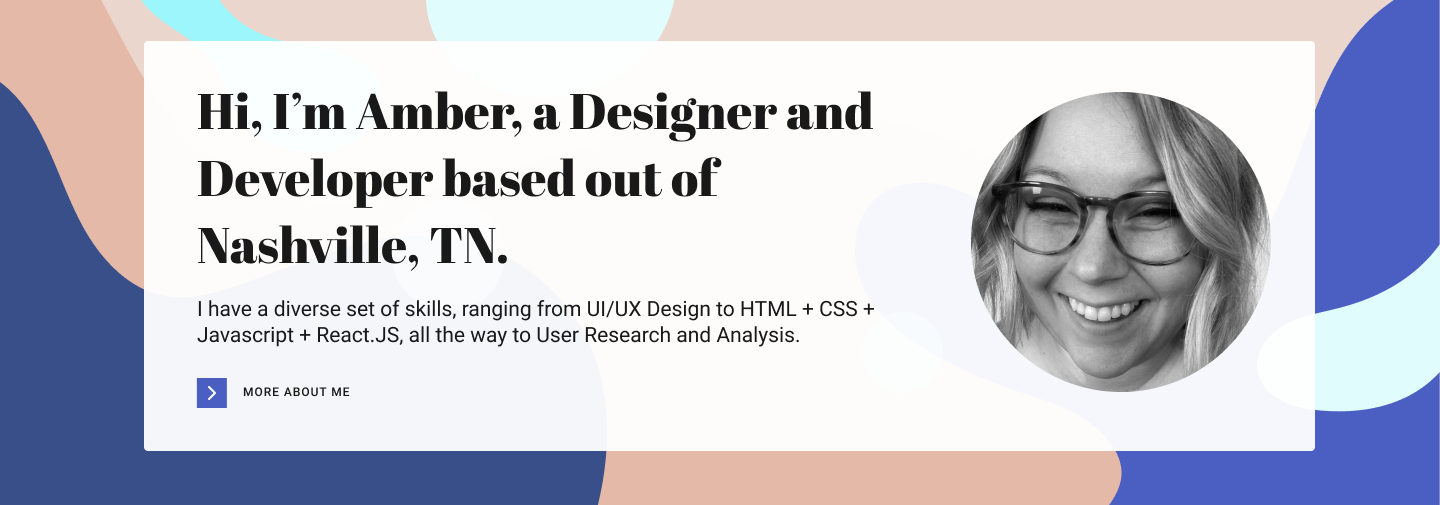
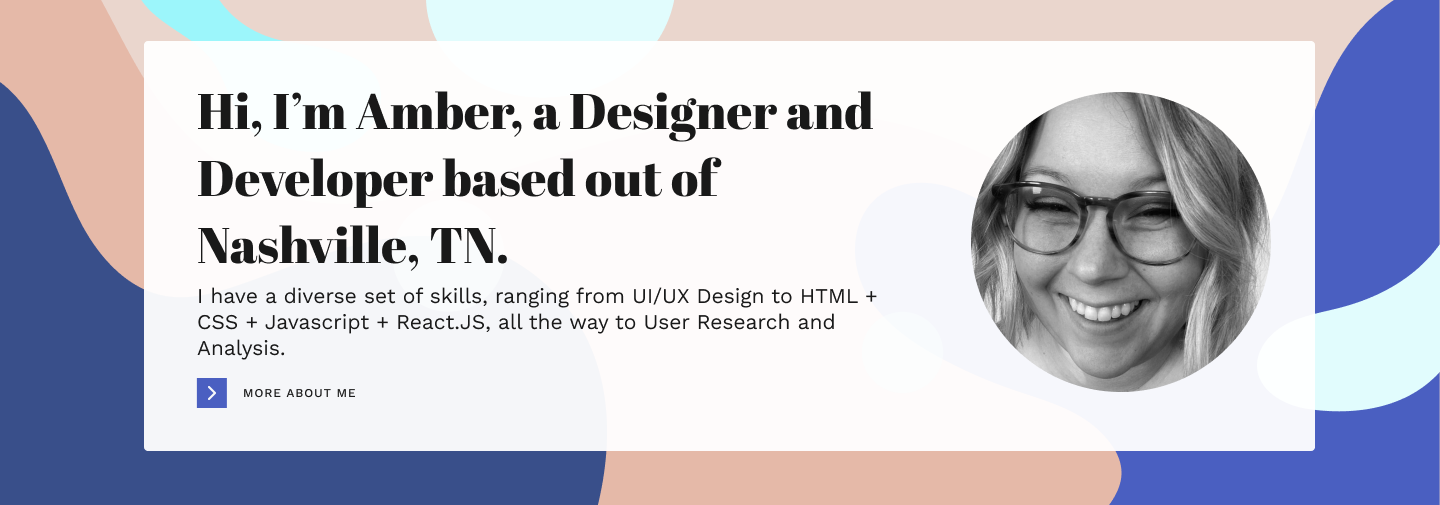
added selected work and recommendations html.

Changed region(s): [[0.125, 0.5644, 0.625, 0.7129], [0.1562, 0.7426, 0.25, 0.802]]

diff --git a/index.html b/index.html
@@ -12,7 +12,7 @@
 </head>
 <body>
     <nav class="navbar navbar-expand-lg navbar-light bg-light">
-        <div class="container-fluid navbar-container">
+        <div class="container-fluid">
           <button class="navbar-toggler" type="button" data-bs-toggle="collapse" data-bs-target="#navbarNav" aria-controls="navbarNav" aria-expanded="false" aria-label="Toggle navigation">
             <span class="navbar-toggler-icon"></span>
           </button>
@@ -54,5 +54,51 @@
     <script type="text/javascript" src="main.js"></script>
     <script src="https://cdn.jsdelivr.net/npm/@popperjs/core@2.9.1/dist/umd/popper.min.js" integrity="sha384-SR1sx49pcuLnqZUnnPwx6FCym0wLsk5JZuNx2bPPENzswTNFaQU1RDvt3wT4gWFG" crossorigin="anonymous"></script>
     <script src="https://cdn.jsdelivr.net/npm/bootstrap@5.0.0-beta3/dist/js/bootstrap.min.js" integrity="sha384-j0CNLUeiqtyaRmlzUHCPZ+Gy5fQu0dQ6eZ/xAww941Ai1SxSY+0EQqNXNE6DZiVc" crossorigin="anonymous"></script>
+    <h2 class="h2-heading">Selected Work</h2>
+    <div class="selectedWorkContainer" >
+        <div class="selectedWork">
+            <a><img src="images/community.png" class="selectedWorkImg" /></a>
+            <h3 class="h3-heading">Community</h3>
+            <p>CMS <span>(Design & Development)</span></p>
+        </div>
+        <div class="selectedWork">
+            <a><img src="images/DE.png" class="selectedWorkImg" /></a>
+            <h3 class="h3-heading">Data Extract</h3>
+            <p>Web app <span>(Design)</span></p>
+        </div>
+
+        <div class="selectedWork">
+            <a><img src="images/eComm.png" class="selectedWorkImg" /></a>
+            <h3 class="h3-heading">eCommerce</h3>
+            <p>Web app <span>(Re-design Development)</span></p>
+        </div>
+        <div class="selectedWork">
+            <a><img src="images/NDA.png" class="selectedWorkImg" /></a>
+        </div>
+    </div>
+    <div class="recomendationsContainer">
+        <h2 class="h2-heading">Recommendations</h2>
+        <h4>Here’s what my teammates have to say about me</h4>
+        <div class="recommendationRow">
+            <div class="quotationBlock">
+                <p>“She is an innovator that only seems to be bound by the lack of time in a day. When working with Amber it is easy to see that her true goal is not simply to solve a problem, but to elevate the solution.”</p>
+                <div class="caret"></div>
+                <img src="images/patrickpic.png" alt="picture of Patrick Thoreson" width="56px" height="56px" />
+                <p class="quotationName">Patrick Thoreson</p>
+            </div>
+            <div class="quotationBlock">
+                <p>“She is an innovator that only seems to be bound by the lack of time in a day. When working with Amber it is easy to see that her true goal is not simply to solve a problem, but to elevate the solution.”</p>
+                <div class="caret"></div>
+                <img src="images/patrickpic.png" alt="picture of Patrick Thoreson" width="56px" height="56px" />
+                <p class="quotationName">Patrick Thoreson</p>
+            </div>
+            <div class="quotationBlock">
+                <p>“She is an innovator that only seems to be bound by the lack of time in a day. When working with Amber it is easy to see that her true goal is not simply to solve a problem, but to elevate the solution.”</p>
+                <div class="caret"></div>
+                <img src="images/patrickpic.png" alt="picture of Patrick Thoreson" width="56px" height="56px" />
+                <p class="quotationName">Patrick Thoreson</p>
+            </div>
+        </div>
+    </div>
 </body> 
 </html>

diff --git a/main.css b/main.css
@@ -4,6 +4,20 @@ h1 {
 
 h2, h3, h4, h5, body, p, a, body {
     font-family: 'Work Sans', sans-serif;
+    color: #191919;
+}
+
+.h2-heading {
+    font-size: 38px;
+    font-weight: 400;
+    margin: 50px auto 10px;
+    text-align: center;
+}
+
+.h3-heading {
+    font-size: 28px;
+    font-weight: 400;
+    margin-top: 10px;
 }
 
 body {
@@ -12,6 +26,14 @@ body {
 
 .navbar {
     height: 72px;
+}
+
+#navbarNav {
+    justify-content: space-between;
+}
+
+.navbar>.container-fluid {
+    max-width: 1300px;
 }
 
 .navbar-light .navbar-nav .nav-link {
@@ -24,3 +46,73 @@ body {
 .navbar-light .navbar-nav .nav-link .active {
     color: #4A5FC1 !important;
 }
+
+.selectedWorkContainer {
+    display: flex; 
+    flex-wrap: wrap; 
+    justify-content: center;
+}
+
+.selectedWork {
+    margin: 40px;
+}
+
+.selectedWorkImg {
+    width: 425px;
+    height: 275px;
+}
+
+.selectedWork > p {
+    font-size: 16px;
+    line-height: 26px;
+}
+
+.selectedWork > p > span {
+    color: #7D7D7D;
+}
+
+.recomendationsContainer {
+    background-color: #E5B9A8;
+    display: flex;
+    align-items: center;
+    justify-content: center;
+    flex-direction: column;
+}
+
+.recomendationsContainer h4 {
+    font-weight: 400;
+    text-align: center;
+}
+
+.recommendationRow {
+    display: flex;
+}
+
+.quotationBlock {
+    display: flex;
+    flex-direction: column;
+    background: white;
+    border-radius: 10px;
+    margin: 15px;
+    width: 350px;
+    height: 192px;
+}
+
+.quotationBlock p {
+    padding: 30px;
+    margin-bottom: 0;
+}
+
+.quotationName {
+    font-size: 18px;
+    font-weight: 600;
+}
+
+.caret {
+    width: 0; 
+    height: 0;
+    align-self: center;
+    border-left: 20px solid transparent;
+    border-right: 20px solid transparent;
+    border-top: 20px solid #f00;
+  }
